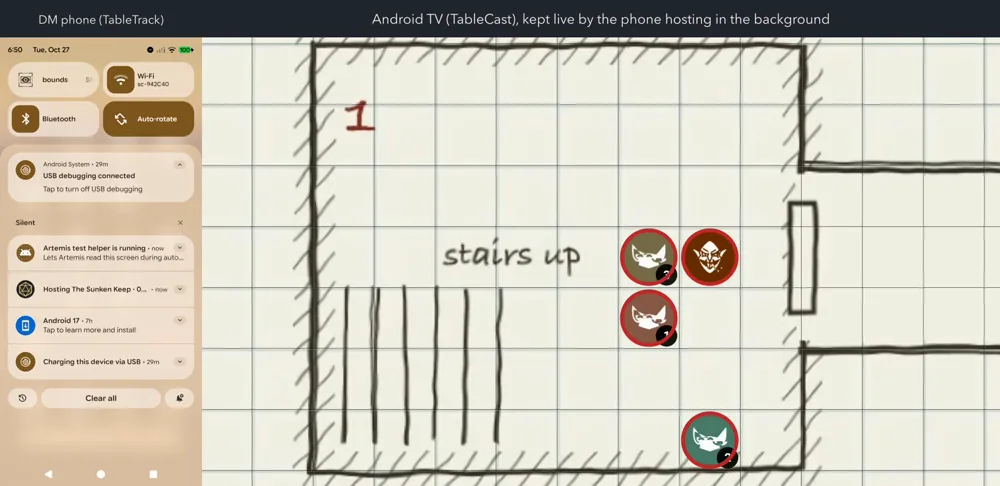
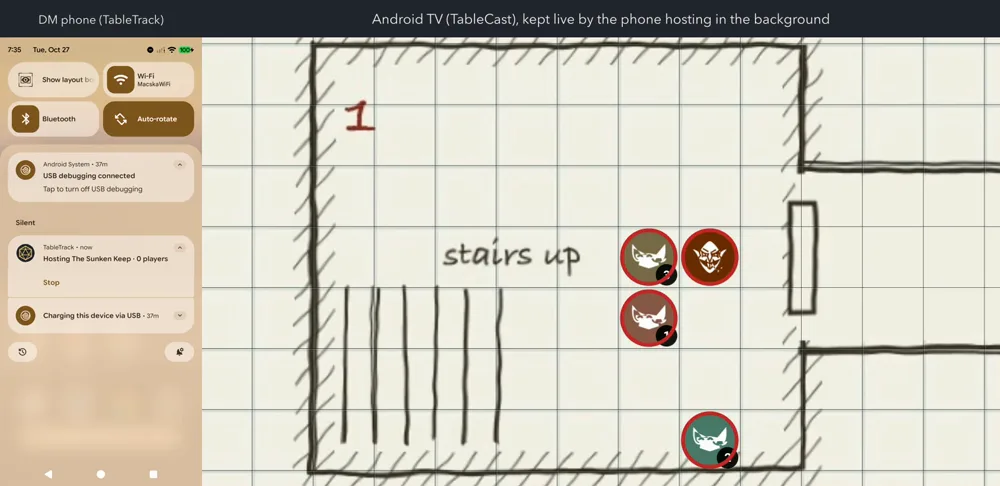
Videos: hosting demo re-recorded, ending with Stop from the notification

diff --git a/site/videos.html b/site/videos.html
@@ -35,7 +35,8 @@
     <ol>
       <li>The TV asks to show the table, and the Dungeon Master allows it.</li>
       <li>The Dungeon Master reveals the battle map, and the TV shows it with the creature tokens.</li>
-      <li>The Dungeon Master leaves the app. The hosting service keeps serving the table in the background, shown by the ongoing “Hosting The Sunken Keep” notification with its Stop action, and the TV stays live.</li>
+      <li>The Dungeon Master leaves the app. The hosting service keeps serving the table in the background, shown by the ongoing “Hosting The Sunken Keep” notification, and the TV stays live.</li>
+      <li>The Dungeon Master taps Stop on the notification. Hosting ends, the notification goes, and the TV reports it has lost the table.</li>
     </ol>
     <div class="copy">
       <input readonly value="https://tomkoptel.github.io/tabletrack-web/video/hosting-foreground-service.mp4" aria-label="Video link">
